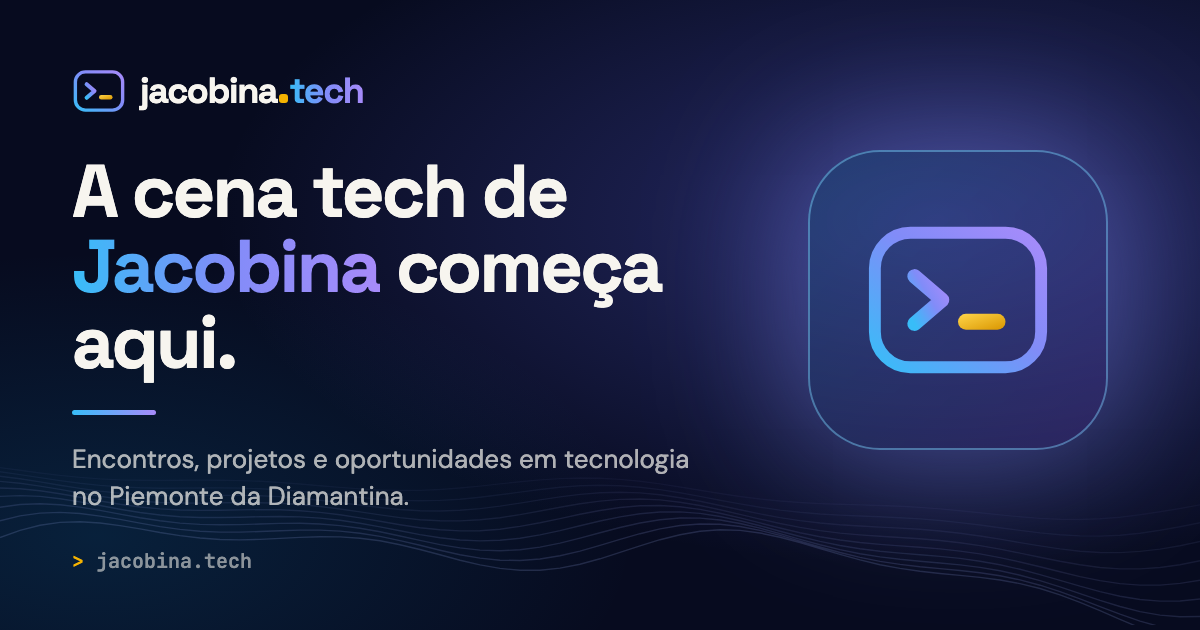
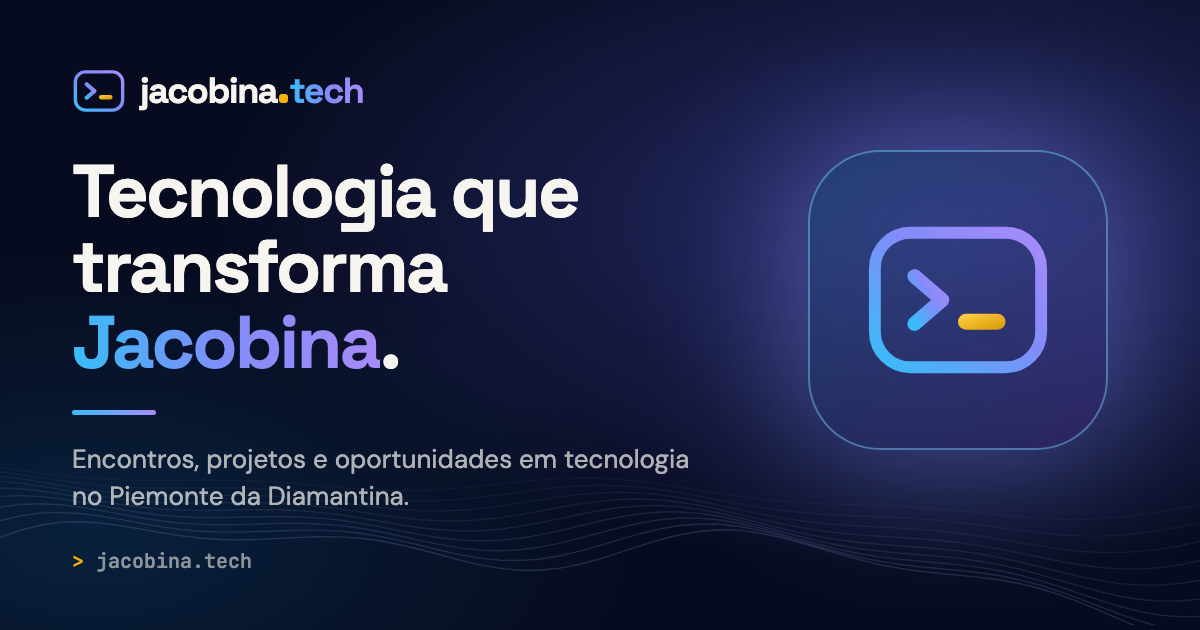
feat: troca "A cena tech" pelo slogan "Tecnologia que transforma Jacobina"
Ajusta hero (fonte para 3 linhas), imagem OG/Twitter e textos que usavam "cena".

Changed region(s): [[0.0617, 0.2413, 0.555, 0.6032]]

diff --git a/src/components/hero-constellation.tsx b/src/components/hero-constellation.tsx
@@ -3,7 +3,7 @@ import { LogoMark } from "./logo";
 
 /**
  * Composição do hero: cartões de UI translúcidos conectados a um nó central por linhas
- * tracejadas — a "arquitetura" da cena tech. Coordenadas no espaço 600×520 (SVG e cartões
+ * tracejadas — a "arquitetura" da comunidade. Coordenadas no espaço 600×520 (SVG e cartões
  * em % do mesmo espaço, então tudo escala junto).
  *
  * Quando houver uma foto real dos estudantes, passe `photo` (ex.: "/home/estudantes.jpg"):
@@ -110,7 +110,7 @@ export function HeroConstellation({ projeto, photo }: Props) {
       {/* Código */}
       <Glass className="right-0 top-0 w-[38%] font-mono text-[10px]" delay="0.6s">
         <pre className="whitespace-pre">
-          <span className="text-violet-300">const</span> cena = {"{"}
+          <span className="text-violet-300">const</span> comunidade = {"{"}
           {"\n"}  cidade: <span className="text-amber-300">&quot;Jacobina&quot;</span>,
           {"\n"}  modo: <span className="text-amber-300">&quot;construir&quot;</span>,
           {"\n"}{"}"};

diff --git a/src/components/home/participar.tsx b/src/components/home/participar.tsx
@@ -19,7 +19,7 @@ const portas = [
   },
   {
     quem: "Já trabalha com TI",
-    oque: "Palestre, seja mentor e ajude a cena local a crescer junto com você.",
+    oque: "Palestre, seja mentor e ajude a comunidade local a crescer junto com você.",
     href: contactHref,
     cta: "Quero contribuir",
   },
@@ -29,7 +29,7 @@ export function Participar() {
   return (
     <section id="participar" className="border-t border-line bg-white py-24 sm:py-32">
       <Container>
-        <SectionHeader eyebrow="Participar" title="Tem lugar para você na cena." />
+        <SectionHeader eyebrow="Participar" title="Tem lugar para você aqui." />
         <div className="grid gap-10 md:grid-cols-3 md:gap-0 md:divide-x md:divide-line">
           {portas.map((p) => (
             <div key={p.quem} className="flex flex-col md:px-10 md:first:pl-0 md:last:pr-0">

diff --git a/src/components/home/hero.tsx b/src/components/home/hero.tsx
@@ -11,8 +11,8 @@ export function Hero({ projeto }: { projeto?: { titulo: string } }) {
       <Container className="relative grid items-center gap-12 pb-24 pt-32 sm:pb-32 sm:pt-40 lg:grid-cols-[1fr_1.05fr] lg:gap-6">
         <div>
           <Eyebrow dark>Jacobina e Piemonte da Diamantina</Eyebrow>
-          <h1 className="mt-7 font-display text-[clamp(2.75rem,6vw,5.25rem)] font-bold leading-[1.02] tracking-[-0.035em]">
-            A cena tech de <span className="text-gradient">Jacobina</span> começa aqui.
+          <h1 className="mt-7 font-display text-[clamp(2.5rem,5.2vw,4.5rem)] font-bold leading-[1.02] tracking-[-0.035em]">
+            Tecnologia que transforma <span className="text-gradient">Jacobina</span>.
           </h1>
           <div className="mt-8">
             <AccentBar />

diff --git a/src/components/home/contato.tsx b/src/components/home/contato.tsx
@@ -16,7 +16,7 @@ export function Contato() {
         <div>
           <Eyebrow dark>Contato</Eyebrow>
           <h2 className="mt-6 font-display text-4xl font-bold tracking-[-0.03em] text-balance sm:text-6xl">
-            Vamos construir a cena <span className="text-gradient">juntos</span>.
+            Vamos construir isso <span className="text-gradient">juntos</span>.
           </h2>
           <div className="mt-8">
             <AccentBar />

diff --git a/brand/og.html b/brand/og.html
@@ -26,7 +26,7 @@
   <div class="hub" id="hub"></div>
   <div class="content">
     <div class="logo" id="logo"></div>
-    <h1>A cena tech de <span class="grad">Jacobina</span> começa aqui.</h1>
+    <h1>Tecnologia que transforma <span class="grad">Jacobina</span>.</h1>
     <div class="bar"></div>
     <p>Encontros, projetos e oportunidades em tecnologia no Piemonte da Diamantina.</p>
     <div class="url"><b>&gt;</b> jacobina.tech</div>
